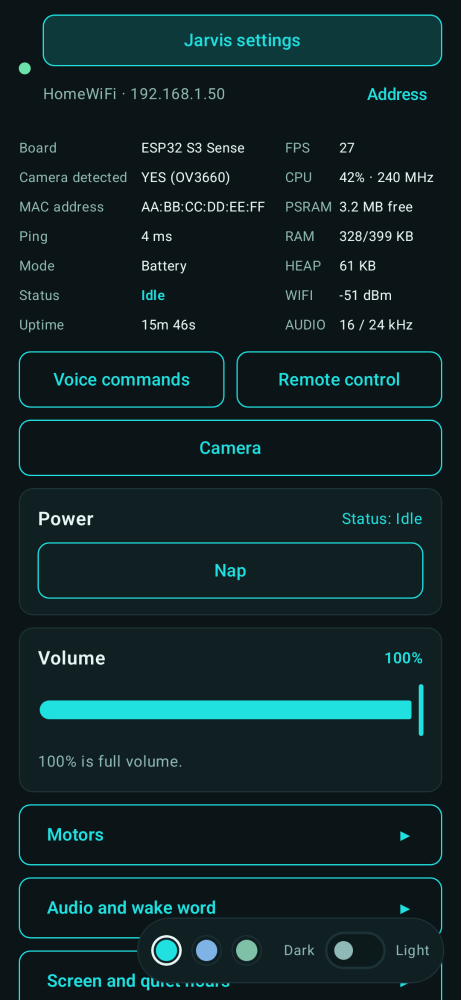
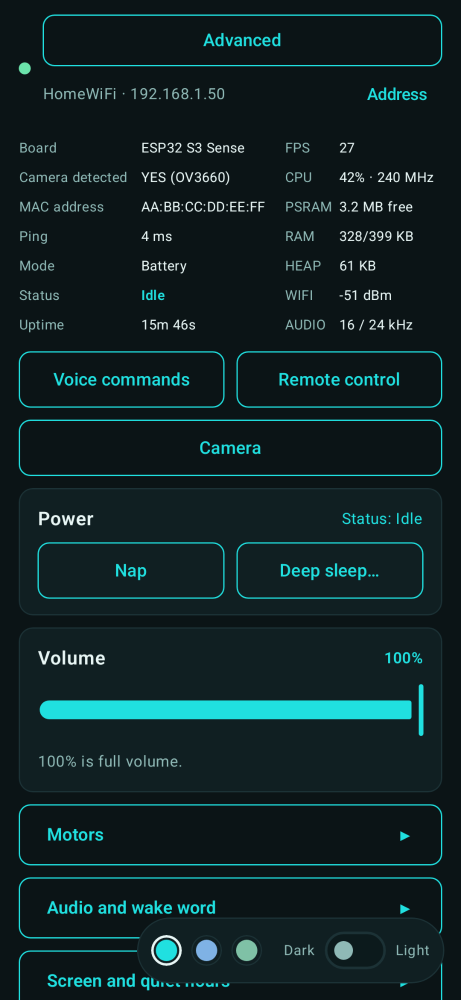
App v2.17: one toggle button (Advanced / Jarvis settings) on both pages; fix the hint wrapper that swallowed row weights (buttons vanished since v2.12); panel address fallback

diff --git a/app/src/main/java/com/jarvis/robot/Components.kt b/app/src/main/java/com/jarvis/robot/Components.kt
@@ -119,26 +119,29 @@ fun JButton(text: String, modifier: Modifier = Modifier, danger: Boolean = false
     if (hint == null) button(modifier) else Hinted(hint, modifier) { button(Modifier.fillMaxWidth()) }   // a long press explains the button
 }
 
-/** The two pages side by side, the same size and look: "Jarvis settings" (the robot) and "Advanced" (the backend). The page you are on is filled. */
+/**
+ * The one button at the top that switches between the two pages, in the same place on both: on the robot's page it says "Advanced" (the backend
+ * control panel), on the Advanced page it says "Jarvis settings" (back to the robot).
+ */
 @Composable
 fun PageTabs(advancedSelected: Boolean, advancedVisible: Boolean, onSettings: () -> Unit, onAdvanced: () -> Unit, modifier: Modifier = Modifier) {
-    Row(modifier.fillMaxWidth(), horizontalArrangement = Arrangement.spacedBy(10.dp)) {
-        PageTab("Jarvis settings", !advancedSelected, Modifier.weight(1f), "The robot: status, power, volume and its settings", onSettings)
-        if (advancedVisible) PageTab("Advanced", advancedSelected, Modifier.weight(1f), "The backend control panel: servers, brains, voices and keys", onAdvanced)
+    Row(modifier.fillMaxWidth()) {
+        if (advancedSelected) PageTab("Jarvis settings", Modifier.weight(1f), "Back to the robot: status, power, volume and its settings", onSettings)
+        else if (advancedVisible) PageTab("Advanced", Modifier.weight(1f), "The backend control panel: servers, brains, voices and keys", onAdvanced)
     }
 }
 
 @Composable
-private fun PageTab(text: String, selected: Boolean, modifier: Modifier, hint: String, onClick: () -> Unit) {
+private fun PageTab(text: String, modifier: Modifier, hint: String, onClick: () -> Unit) {
     val p = LocalPalette.current
     val tick = rememberTick()
     Hinted(hint, modifier) {
         OutlinedButton(
             onClick = { tick(); onClick() },
-            modifier = Modifier.fillMaxWidth().height(44.dp).semantics { this.selected = selected; role = Role.Tab },
+            modifier = Modifier.fillMaxWidth().height(44.dp),
             shape = RoundedCornerShape(10.dp),
             border = BorderStroke(1.dp, p.accent),
-            colors = ButtonDefaults.outlinedButtonColors(containerColor = if (selected) p.accent.copy(alpha = 0.18f) else Color.Transparent),
+            colors = ButtonDefaults.outlinedButtonColors(containerColor = Color.Transparent),
         ) {
             Text(text, color = p.accent, fontSize = 15.sp, maxLines = 1)
         }

diff --git a/app/src/main/java/com/jarvis/robot/RobotViewModel.kt b/app/src/main/java/com/jarvis/robot/RobotViewModel.kt
@@ -329,7 +329,7 @@ class RobotViewModel(app: Application) : AndroidViewModel(app) {
     }
 
     private fun loadMusic(current: RobotApi, s: Status) {
-        val url = if (s.serverCustom) s.panelUrl else ""
+        val url = panelUrlOf(s)
         if (url.isEmpty()) {
             music = null
             return
@@ -356,7 +356,7 @@ class RobotViewModel(app: Application) : AndroidViewModel(app) {
 
     private fun musicAct(action: String) {
         val current = api
-        val url = status?.panelUrl.orEmpty()
+        val url = panelUrlOf(status)
         if (url.isEmpty()) return
         viewModelScope.launch {
             runCatching { withContext(Dispatchers.IO) { current.musicControl(url, action) } }
@@ -365,7 +365,7 @@ class RobotViewModel(app: Application) : AndroidViewModel(app) {
     }
 
     private fun loadHaOk(current: RobotApi, s: Status) {
-        val url = if (s.serverCustom) s.panelUrl else ""
+        val url = panelUrlOf(s)
         if (url.isEmpty()) {
             haOk = false
             return
@@ -389,7 +389,7 @@ class RobotViewModel(app: Application) : AndroidViewModel(app) {
 
     /** The PIN of the own server's control panel, shown so the panel can be opened from this phone. */
     private fun loadBackendPin(current: RobotApi, s: Status) {
-        val url = if (s.serverCustom) s.panelUrl else ""
+        val url = panelUrlOf(s)
         if (url.isEmpty()) {
             backendPin = ""
             pinFor = ""

diff --git a/app/src/main/java/com/jarvis/robot/Interaction.kt b/app/src/main/java/com/jarvis/robot/Interaction.kt
@@ -30,17 +30,19 @@ fun rememberTick(strong: Boolean = false): () -> Unit {
 @OptIn(ExperimentalMaterial3Api::class)
 @Composable
 fun Hinted(hint: String?, modifier: Modifier = Modifier, content: @Composable () -> Unit) {
-    if (hint == null) {
-        Box(modifier) { content() }
-        return
+    // The caller's modifier (a row weight, a width) goes on a plain Box: TooltipBox would swallow a weight and the first button would take the whole row.
+    Box(modifier) {
+        if (hint == null) {
+            content()
+        } else {
+            TooltipBox(
+                positionProvider = TooltipDefaults.rememberPlainTooltipPositionProvider(),
+                tooltip = { PlainTooltip { Text(hint) } },
+                state = rememberTooltipState(),
+                content = content,
+            )
+        }
     }
-    TooltipBox(
-        positionProvider = TooltipDefaults.rememberPlainTooltipPositionProvider(),
-        tooltip = { PlainTooltip { Text(hint) } },
-        state = rememberTooltipState(),
-        modifier = modifier,
-        content = content,
-    )
 }
 
 /** The one confirm popup used for everything that is hard to undo (deep sleep, a new voice server, reset). */

diff --git a/app/src/main/java/com/jarvis/robot/Models.kt b/app/src/main/java/com/jarvis/robot/Models.kt
@@ -195,8 +195,19 @@ fun statusName(s: Status, musicPlaying: Boolean = false): String {
     return name.replaceFirstChar { it.uppercase() }
 }
 
+/**
+ * The address of the own server's control panel (the Advanced page), or "" when Jarvis uses the cloud. It comes with the robot's status; if the robot
+ * does not say, it is the server's host on port 8090.
+ */
+fun panelUrlOf(s: Status?): String {
+    if (s == null || !s.serverCustom) return ""
+    if (s.panelUrl.isNotEmpty()) return s.panelUrl
+    val host = Regex("^[a-zA-Z]+://([^/:]+)").find(s.server.orEmpty())?.groupValues?.get(1).orEmpty()
+    return if (host.isNotEmpty()) "http://$host:8090/" else ""
+}
+
 /** Does Jarvis talk to an own server that has a control panel (the Advanced page)? */
-fun hasPanel(s: Status?): Boolean = s?.serverCustom == true && s.panelUrl.isNotEmpty()
+fun hasPanel(s: Status?): Boolean = panelUrlOf(s).isNotEmpty()
 
 fun fmtAudio(s: Status): String {
     if (s.audioInHz <= 0) return "--"

diff --git a/app/src/main/java/com/jarvis/robot/Tablet.kt b/app/src/main/java/com/jarvis/robot/Tablet.kt
@@ -82,8 +82,8 @@ fun TabletContent(state: MainUiState, actions: MainActions, initialSection: Stri
         ThemeBackdrop()
         Row(Modifier.fillMaxSize().displayCutoutPadding().statusBarsPadding().navigationBarsPadding()) {
             NavPane(state, actions, sections, selected) { selected = it }
-            val panelUrl = state.status?.panelUrl.orEmpty()
-            if (selected == SECTION_BACKEND && state.status?.serverCustom == true && panelUrl.isNotEmpty()) {
+            val panelUrl = panelUrlOf(state.status)
+            if (selected == SECTION_BACKEND && panelUrl.isNotEmpty()) {
                 // The backend page alone, from the top of the right side down to the bottom (the page scrolls itself).
                 BackendWeb(panelUrl, state.host, state.palette, Modifier.weight(1f).fillMaxHeight().padding(12.dp).clip(RoundedCornerShape(12.dp)))
                 return@Row

diff --git a/app/src/test/java/com/jarvis/robot/ModelsTest.kt b/app/src/test/java/com/jarvis/robot/ModelsTest.kt
@@ -30,6 +30,9 @@ class ModelsTest {
         assertEquals(32, s.heapLargestKb)
         assertEquals(-87, s.rssi)
         assertEquals("Idle", statusName(s))
+        assertEquals("", panelUrlOf(s))   // the cloud has no Advanced page
+        assertEquals("http://10.1.2.3:8090/", panelUrlOf(s.copy(serverCustom = true, server = "http://10.1.2.3:8003/xiaozhi/ota/")))
+        assertEquals("http://pc:9000/", panelUrlOf(s.copy(serverCustom = true, panelUrl = "http://pc:9000/")))
         assertEquals("Idle", statusName(s, musicPlaying = true))   // music mode only replaces "Speaking"
         assertEquals("Music mode", statusName(s.copy(state = 6), musicPlaying = true))
         assertEquals("Speaking", statusName(s.copy(state = 6), musicPlaying = false))

diff --git a/app/src/main/java/com/jarvis/robot/BackendWeb.kt b/app/src/main/java/com/jarvis/robot/BackendWeb.kt
@@ -101,7 +101,7 @@ fun BackendScreen(state: MainUiState, onClose: () -> Unit) {
         ThemeBackdrop()
         Column(Modifier.fillMaxSize().statusBarsPadding().navigationBarsPadding()) {
             PageTabs(advancedSelected = true, advancedVisible = true, onSettings = onClose, onAdvanced = {}, modifier = Modifier.padding(horizontal = 16.dp, vertical = 8.dp))
-            BackendWeb(state.status?.panelUrl.orEmpty(), state.host, state.palette, Modifier.fillMaxSize())
+            BackendWeb(panelUrlOf(state.status), state.host, state.palette, Modifier.fillMaxSize())
         }
     }
 }
